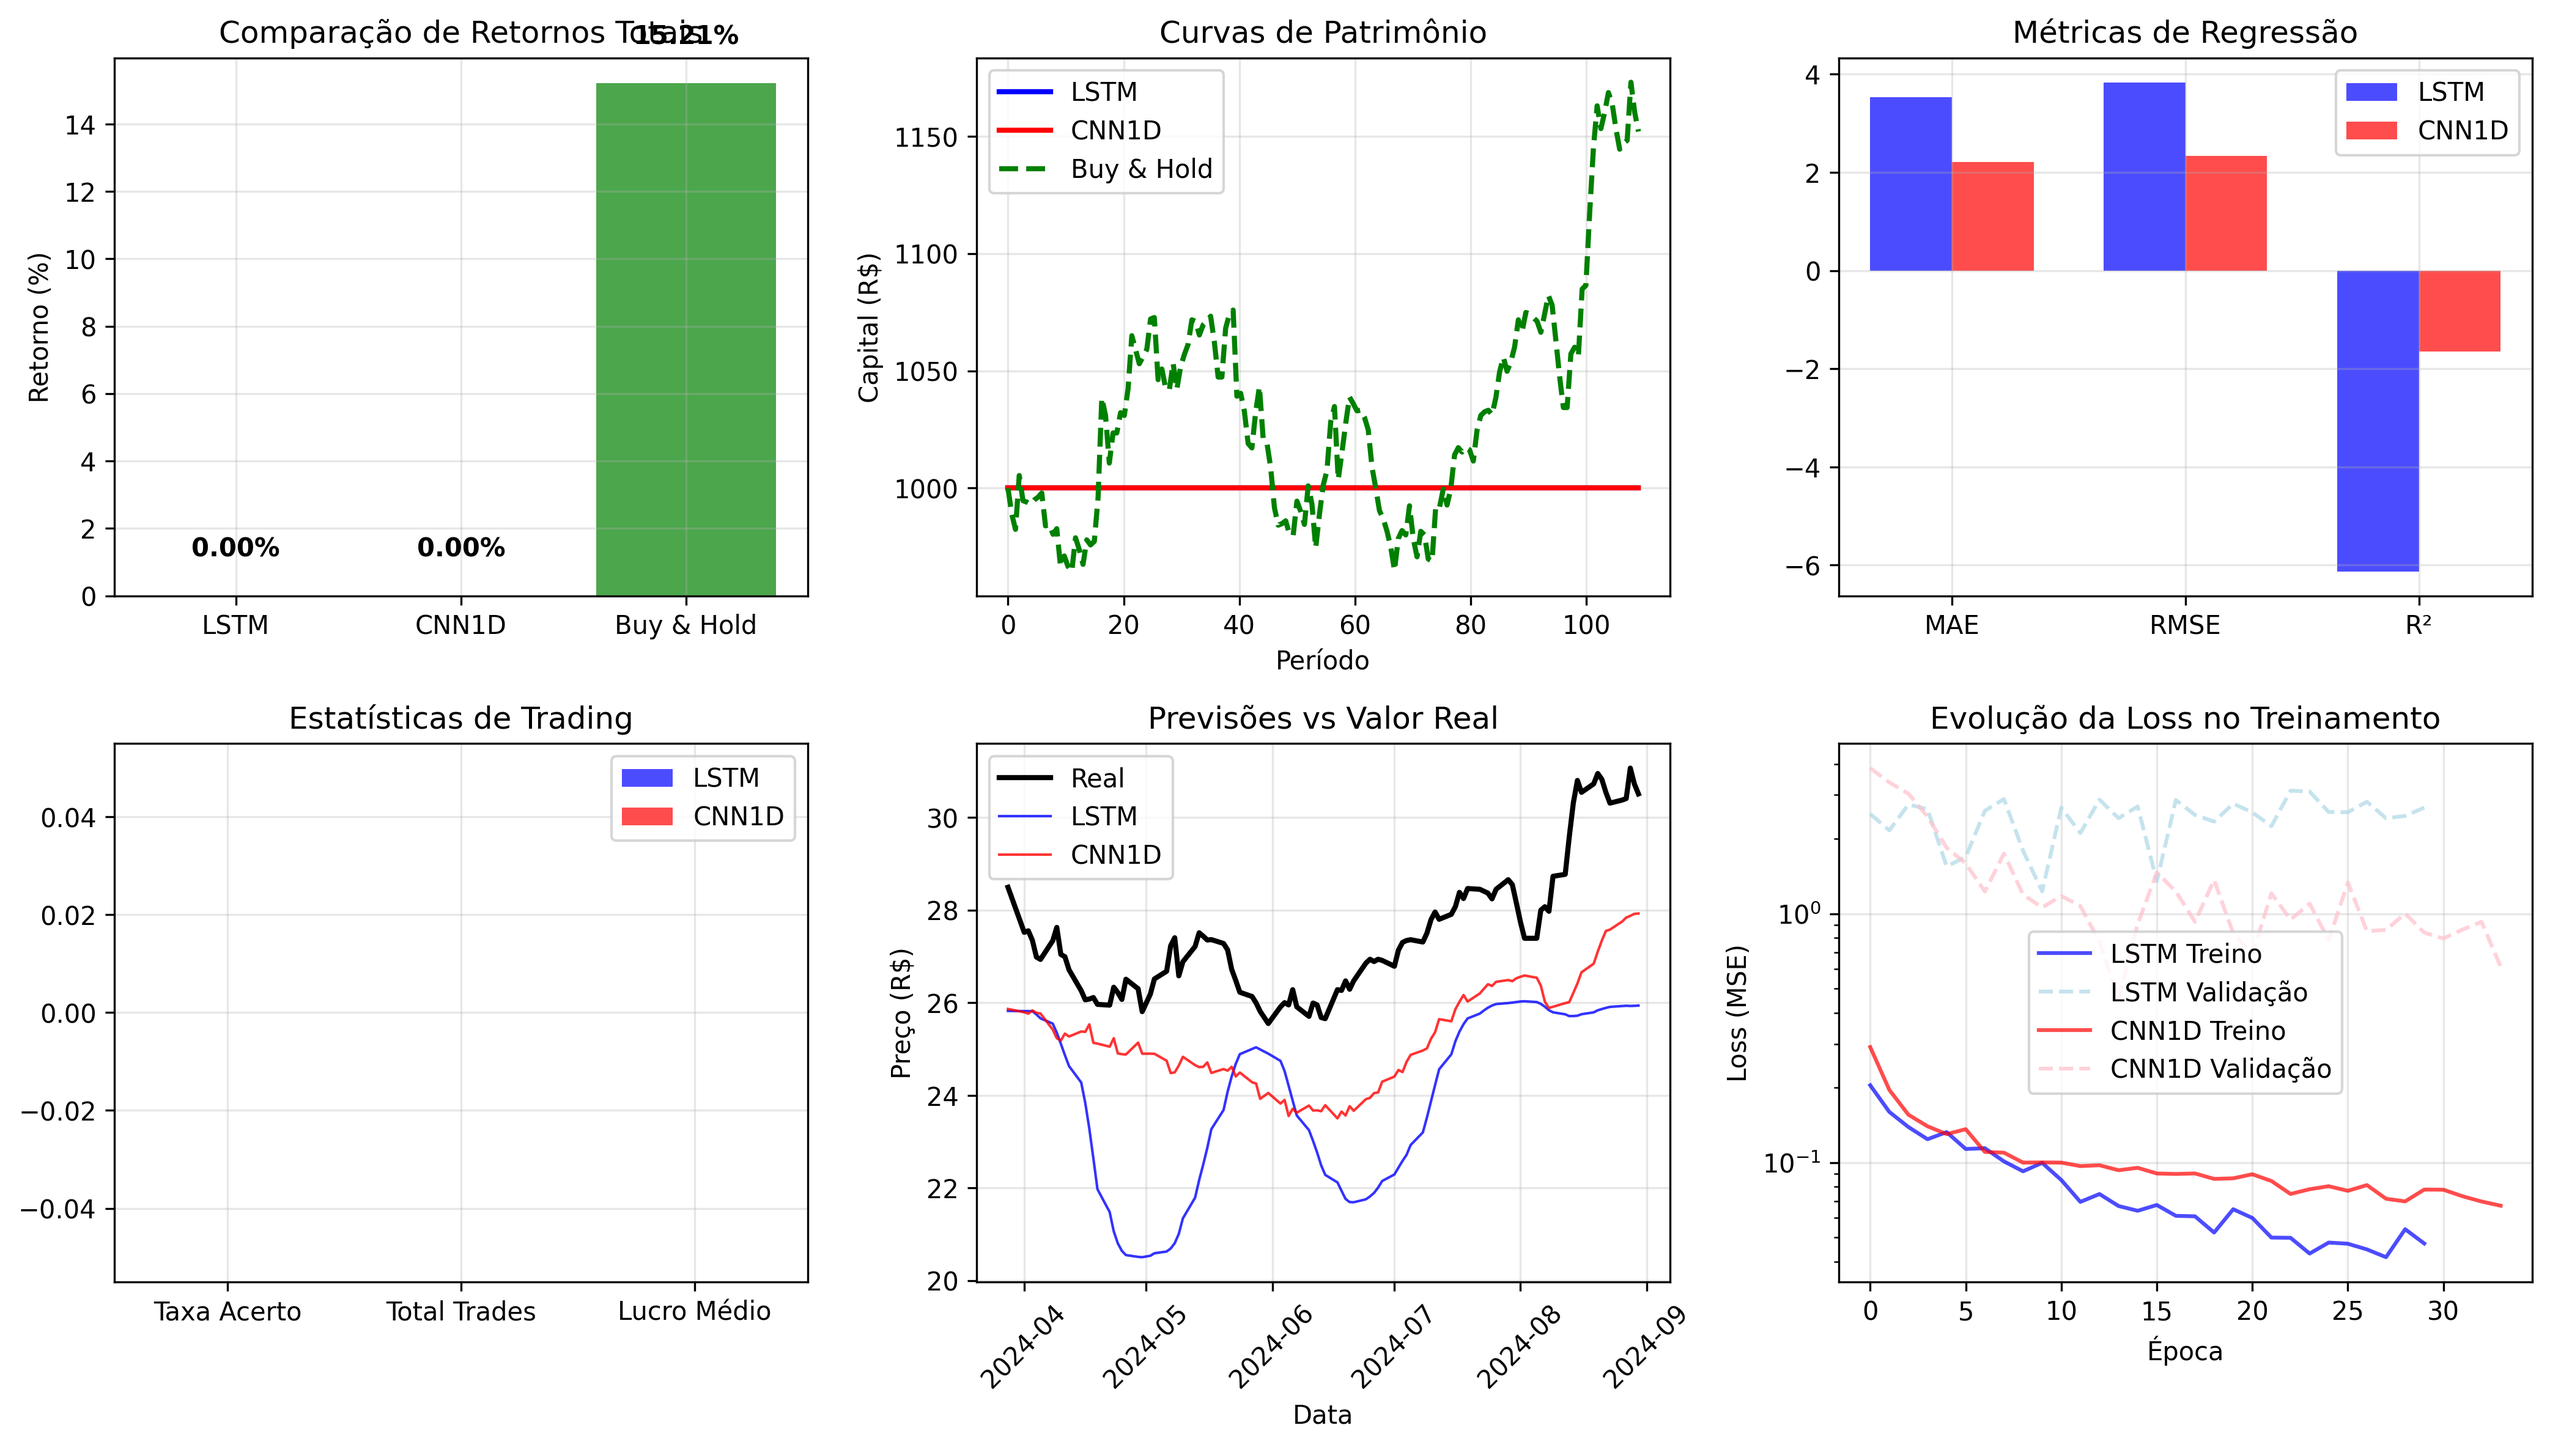
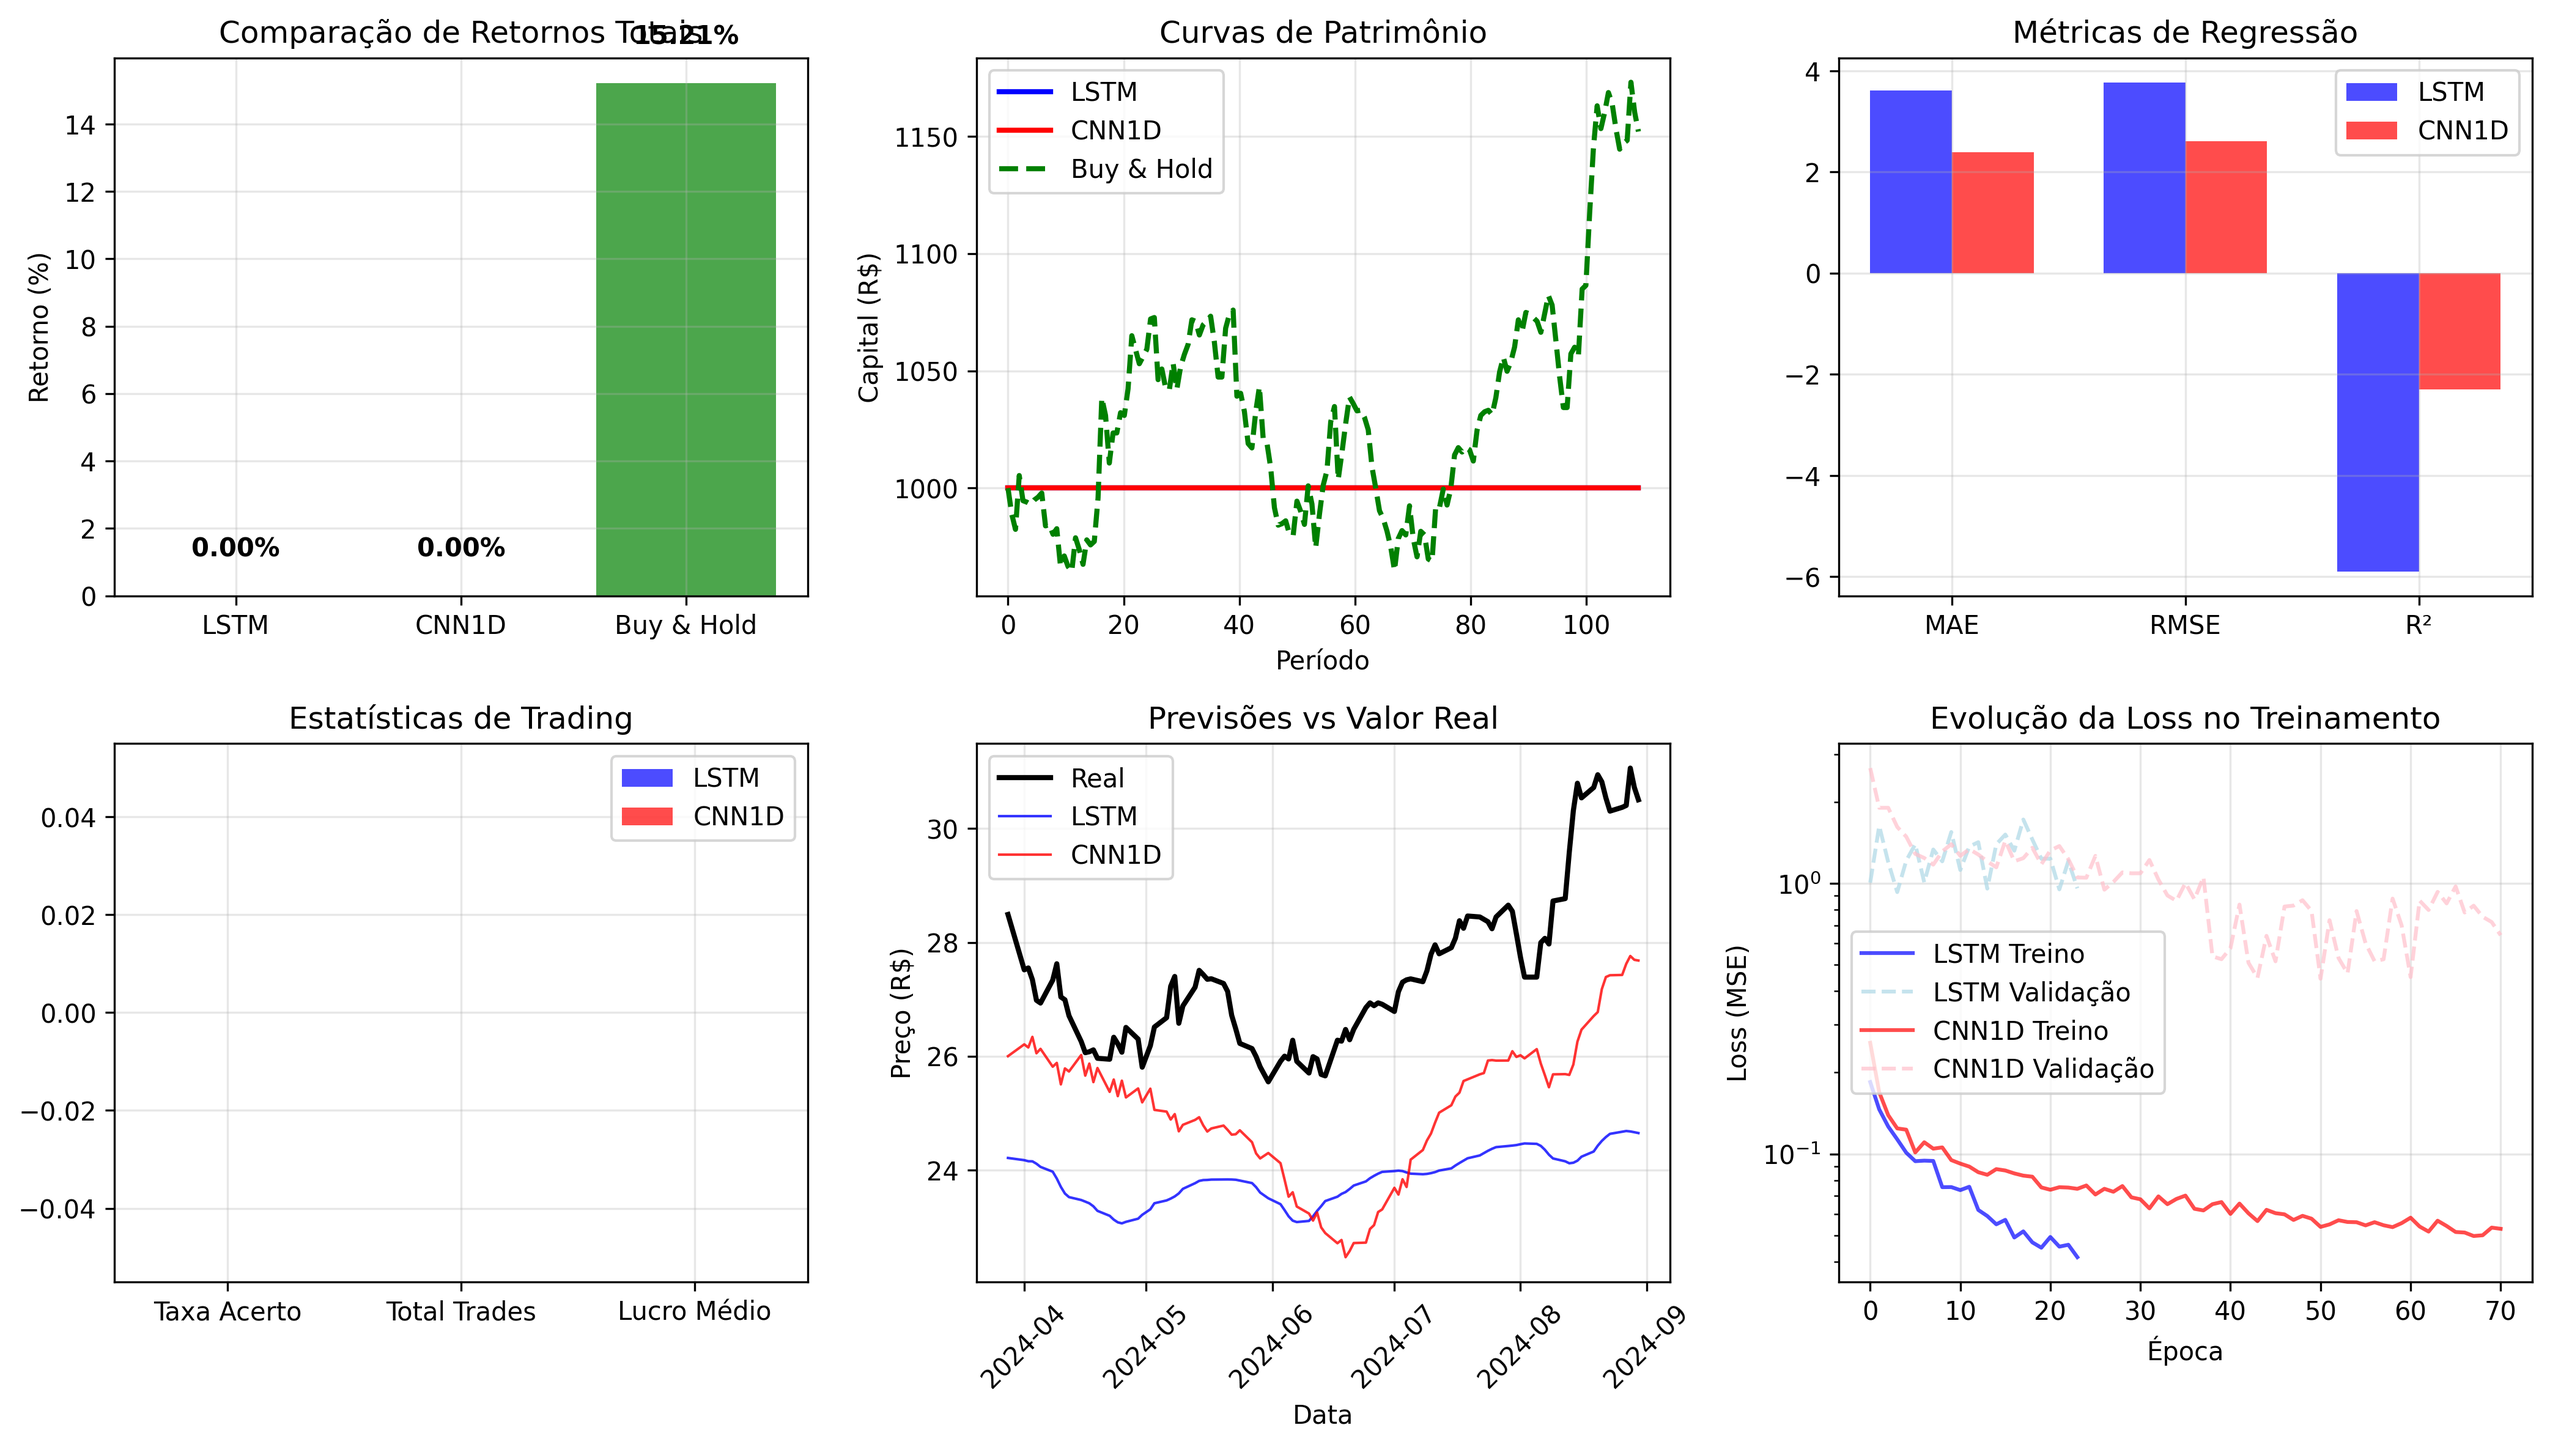
previsao correta

diff --git a/comparativo.py b/comparativo.py
@@ -16,7 +16,7 @@ warnings.filterwarnings('ignore')
 
 # Configurações
 TICKER = "ITUB4.SA"
-DATA_INICIO_TREINO = "2020-01-01"
+DATA_INICIO_TREINO = "2014-01-01"
 DATA_FIM_TREINO = "2023-12-31"
 DATA_INICIO_TESTE = "2024-01-01"
 DATA_FIM_TESTE = "2024-08-31"
